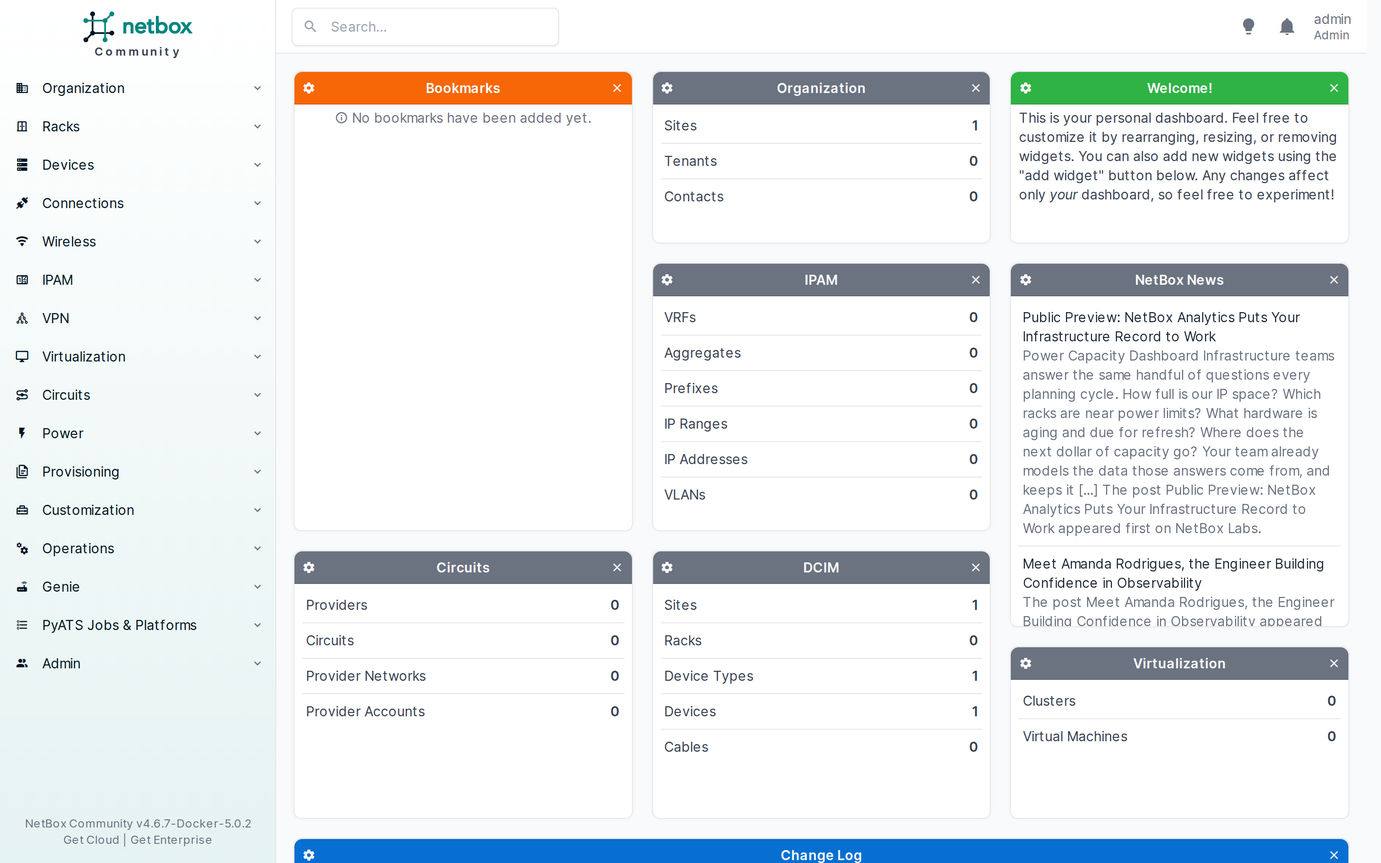
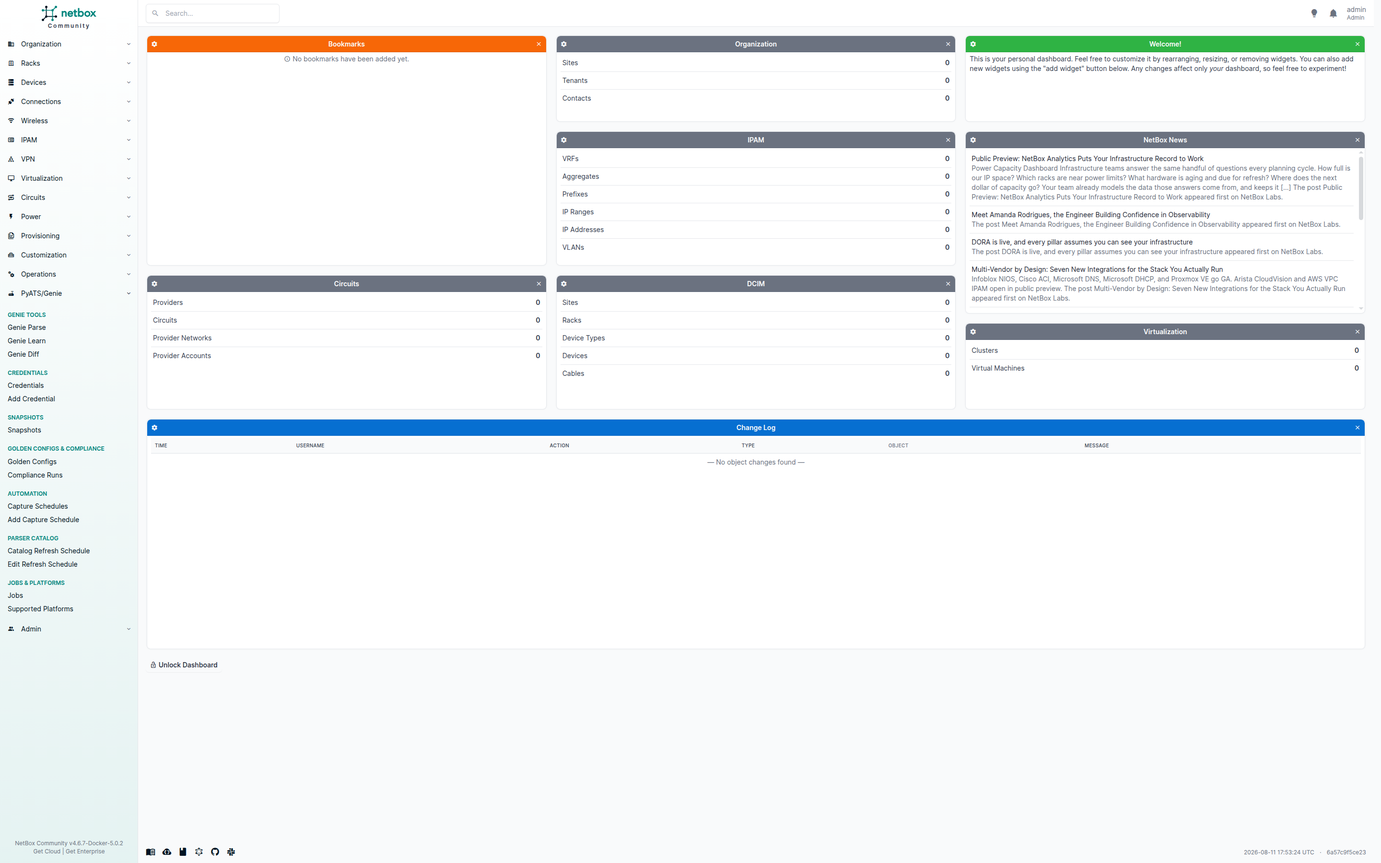
docs(ATW-801): recapture nav screenshot + refresh docs for consolidated PyATS/Genie menu
Follow-up to ATW-794 (PR #142, merge 9392c97) which consolidated the
two top-level menus (Genie + PyATS Jobs & Platforms) into a single
PluginMenu(label="PyATS/Genie") with 7 groups and 14 items.

- Re-capture docs/screenshots/nav-pyats-menu.png against a live dev
  stack (NetBox 4.6.7) showing the single PyATS/Genie top-level menu
  expanded with all seven groups (Genie Tools, Credentials, Snapshots,
  Golden Configs & Compliance, Automation, Parser Catalog, Jobs &
  Platforms). The old screenshot showed the ATW-732 dual-menu layout.
- README: update the "At a glance" paragraph, the nav screenshot alt
  text, and the caption to describe the single PyATS/Genie menu.
- docs/user/usage.md: update the intro, section 8 "Browse everything"
  (now one top-level menu with 7 groups, not two menus), the nav
  screenshot alt text, and every breadcrumb (Genie -> ... becomes
  PyATS/Genie -> ...; PyATS Jobs & Platforms -> ... becomes
  PyATS/Genie -> Jobs & Platforms -> ...).
- docs/user/installation.md: update the post-restart nav description,
  the nav screenshot alt text, and the verify-the-install breadcrumbs.
- docs/user/compliance.md, credentials.md, scheduled-captures.md,
  scheduled-parser-catalog-refresh.md: update breadcrumbs to the
  PyATS/Genie top-level menu.
- CHANGELOG: add the ATW-794 consolidation entry under "Changed" and
  the ATW-801 docs follow-up entry under "Docs".

Docs-only: no code, nav structure, or model changes. The nav
[…]

diff --git a/docs/user/usage.md b/docs/user/usage.md
@@ -1,6 +1,6 @@
 # Usage guide
 
-The plugin adds a **PyATS** tab to every NetBox device page, plus a top-level **Genie** menu with three dedicated first-class surfaces — **Genie Parse**, **Genie Learn**, and **Genie Diff** — that are the primary way to run ad-hoc parses, Genie Ops learn captures, and snapshot diffs. The device-page tab stays as a convenience for one-device workflows; the dedicated pages are the primary surfaces for cross-device and catalog-driven work. This guide walks the full workflow with exact UI paths.
+The plugin adds a **PyATS** tab to every NetBox device page, plus a single top-level **PyATS/Genie** menu in the NetBox navigation with three dedicated first-class surfaces — **Genie Parse**, **Genie Learn**, and **Genie Diff** — under a **Genie Tools** group, alongside the supporting groups (Credentials, Snapshots, Golden Configs & Compliance, Automation, Parser Catalog, Jobs & Platforms). The dedicated Genie pages are the primary way to run ad-hoc parses, Genie Ops learn captures, and snapshot diffs. The device-page tab stays as a convenience for one-device workflows; the dedicated pages are the primary surfaces for cross-device and catalog-driven work. This guide walks the full workflow with exact UI paths.
 
 ## Prerequisites
 
@@ -11,7 +11,7 @@ The plugin adds a **PyATS** tab to every NetBox device page, plus a top-level **
 
 ## 1 — Add a credential
 
-**Genie → Credentials → Add Credential**.
+**PyATS/Genie → Credentials → Add Credential**.
 
 Pick a device, enter username + password (+ optional enable secret). The secrets are encrypted with Fernet before they hit the database — see [Credential encryption](credentials.md). The credential is never returned by the REST API, GraphQL, or the detail view template; only ciphertext is persisted.
 
@@ -43,7 +43,7 @@ For recurring captures (e.g. a nightly baseline for drift detection), see [Sched
 
 ## 3 — Run an on-demand Parse
 
-The dedicated **Genie Parse** page (**Genie → Genie Tools → Genie Parse**, `/plugins/pyats/genie/parse/`) is the primary surface for ad-hoc Genie parser runs. It combines:
+The dedicated **Genie Parse** page (**PyATS/Genie → Genie Tools → Genie Parse**, `/plugins/pyats/genie/parse/`) is the primary surface for ad-hoc Genie parser runs. It combines:
 
 - a **device picker** (GET `?device=<pk>`),
 - the **parse form** — the same form the device-page Parse sub-tab uses: a checkbox list of cached parser commands for the device's resolved pyATS os (populated from the `PyatsParserCatalog` row — DB only, no Genie import in the web process) and/or a free-text `manual_command` field,
@@ -61,7 +61,7 @@ The device-page **PyATS** tab → **Parse** link stays as a convenience; the ded
 
 ## 4 — Run a Genie Learn capture
 
-The dedicated **Genie Learn** page (**Genie → Genie Tools → Genie Learn**, `/plugins/pyats/genie/learn/`) runs a structured feature-state capture against a device using the Genie Ops framework (per-feature Ops `.learn()`). It combines:
+The dedicated **Genie Learn** page (**PyATS/Genie → Genie Tools → Genie Learn**, `/plugins/pyats/genie/learn/`) runs a structured feature-state capture against a device using the Genie Ops framework (per-feature Ops `.learn()`). It combines:
 
 - a **device picker**,
 - a **Run Learn** action — enqueues a `learn_snapshot_job` on the `pyats` queue; the worker connects via Unicon, iterates every Ops feature the device exposes (BGP, interfaces, OSPF, VLANs, …), and stores a `kind='learn'` `PyatsSnapshot` row whose `data["learn"]` is keyed by feature name,
@@ -76,7 +76,7 @@ Use Learn when you want a structured, feature-keyed view of device state (e.g. a
 
 ## 5 — Diff two snapshots
 
-The dedicated **Genie Diff** page (**Genie → Genie Tools → Genie Diff**, `/plugins/pyats/genie/diff/`) is the primary surface for all diff operations. It combines:
+The dedicated **Genie Diff** page (**PyATS/Genie → Genie Tools → Genie Diff**, `/plugins/pyats/genie/diff/`) is the primary surface for all diff operations. It combines:
 
 - a **mode picker** — **Same device** (classic pre/post-change check on one device) or **Cross-device** (compare the same feature across two devices),
 - **device pickers** — in cross-device mode, pick the before and after devices separately (GET `?before_device=<pk>&after_device=<pk>&mode=cross`),
@@ -102,7 +102,7 @@ The diff engine is pure-Python and operates on already-serialized JSONB — no p
 
 ## 6 — Add a golden config
 
-**Genie → Golden Configs & Compliance → Golden Configs → Add** (or open the device's PyATS tab → use the "Run compliance" picker's golden link).
+**PyATS/Genie → Golden Configs & Compliance → Golden Configs → Add** (or open the device's PyATS tab → use the "Run compliance" picker's golden link).
 
 Pick the device, give the golden a name (e.g. `baseline-rtr01`), and paste the expected running-config text. The `source` defaults to `manual`; a "promote from snapshot" flow sets it to `snapshot` and links the originating `PyatsSnapshot` for provenance. Multiple goldens per device are allowed (e.g. `baseline`, `post-maintenance-window`).
 
@@ -124,9 +124,9 @@ The compliance-run viewer (`/plugins/pyats/compliance-runs/<pk>/`) reuses the di
 
 ## 8 — Browse everything
 
-The plugin exposes two top-level menus in the NetBox navigation:
+The plugin adds a single top-level **PyATS/Genie** menu to the NetBox navigation, with seven groups:
 
-**Genie** (the primary menu):
+**PyATS/Genie** (the single top-level menu):
 
 - **Genie Tools** group — the three primary Genie surfaces:
   - **Genie Parse** — the dedicated Parse page (`/plugins/pyats/genie/parse/`, see [§3](#3-run-an-on-demand-parse)).
@@ -137,17 +137,15 @@ The plugin exposes two top-level menus in the NetBox navigation:
 - **Golden Configs & Compliance** — Golden Configs filterable by device/source, Compliance Runs filterable by device/result.
 - **Automation** — Capture Schedules (the recurring-capture model, see [Scheduled captures](scheduled-captures.md)).
 - **Parser Catalog** — the Catalog Refresh Schedule (see [Scheduled parser-catalog refresh](scheduled-parser-catalog-refresh.md)). The catalog rows themselves have no UI list view — they are a worker-populated cache read by the Parse page and exposed read-only via the REST + GraphQL API.
+- **Jobs & Platforms** group (the operational surface, closing the menu per ADR-0001 §3):
+  - **Jobs** (`/plugins/pyats/jobs/`) — one row per capture / diff / compliance / batch-capture / parse / learn / refresh-catalog job, with a `pending` → `running` → `success` / `error` / `partial` status lifecycle and typed links to the result row each job produced. Filterable by type, status, and device.
+  - **Supported Platforms** — the static platform → pyATS os map with per-slug device counts.
 
-**PyATS Jobs & Platforms** (the operational surface):
-
-- **Jobs** (`/plugins/pyats/jobs/`) — one row per capture / diff / compliance / batch-capture / parse / learn / refresh-catalog job, with a `pending` → `running` → `success` / `error` / `partial` status lifecycle and typed links to the result row each job produced. Filterable by type, status, and device.
-- **Supported Platforms** — the static platform → pyATS os map with per-slug device counts.
-
-> **Snapshot Diffs** have no standalone menu entry — the dedicated **Genie → Genie Diff** page is the primary surface (recent diffs across all devices + a "View all" link to the full diff history at `/plugins/pyats/diffs/`). The device-page Diff sub-tab stays as a convenience.
+> **Snapshot Diffs** have no standalone menu entry — the dedicated **PyATS/Genie → Genie Tools → Genie Diff** page is the primary surface (recent diffs across all devices + a "View all" link to the full diff history at `/plugins/pyats/diffs/`). The device-page Diff sub-tab stays as a convenience.
 
 Each detail view renders the JSONB payload / diff table / golden text / compliance diff and any warnings.
 
-<img src="../screenshots/nav-pyats-menu.png" alt="NetBox navigation with the top-level Genie menu expanded showing the Genie Tools group (Genie Parse, Genie Learn, Genie Diff), Credentials, Snapshots, Golden Configs &amp; Compliance, Automation, and Parser Catalog, plus the PyATS Jobs &amp; Platforms menu" width="720">
+<img src="../screenshots/nav-pyats-menu.png" alt="NetBox navigation with the single top-level PyATS/Genie menu expanded showing seven groups: Genie Tools (Genie Parse, Genie Learn, Genie Diff), Credentials, Snapshots, Golden Configs & Compliance, Automation, Parser Catalog, and Jobs & Platforms (Jobs, Supported Platforms)" width="720">
 
 <img src="../screenshots/jobs-view.png" alt="The unified PyATS Jobs view showing capture and batch-capture jobs with status badges including a partial row" width="720">
 
@@ -173,7 +171,7 @@ Genie parsers cover Cisco IOS/XE/XR/NX-OS/ASA, Juniper JunOS, Arista EOS, and No
 
 Adding a slug to the map is a commitment that Genie has real parser coverage for that os; unknown slugs degrade gracefully rather than silently producing empty snapshots.
 
-The supported-platforms report at **PyATS Jobs & Platforms → Supported Platforms** renders the static map the capture job uses, with a per-slug NetBox device count, so you can see what a batch capture will reach before you run it.
+The supported-platforms report at **PyATS/Genie → Jobs & Platforms → Supported Platforms** renders the static map the capture job uses, with a per-slug NetBox device count, so you can see what a batch capture will reach before you run it.
 
 <img src="../screenshots/supported-platforms.png" alt="The supported-platforms report showing the platform slug to pyATS os map with per-slug device counts" width="720">
 

diff --git a/CHANGELOG.md b/CHANGELOG.md
@@ -60,6 +60,7 @@ adheres to [Semantic Versioning](https://semver.org/spec/v2.0.0.html).
 
 - `next_run_at` now populated from the NetBox `Job` row's `interval` (ATW-610): both schedule dispatchers (`run_capture_schedules_job`, `run_parser_catalog_refresh_schedules_job`) set `next_run_at = last_run_at + interval` when running under a recurring `JobRunner` schedule, so the list-view "Next run" badge shows a real value. One-shot enqueues (no `interval`) leave `next_run_at` blank — no behavior change for non-recurring runs. Reconciles the model docstrings (which already said both fields are "written by the job") with the dispatcher behavior. No migration (field unchanged). Model/ADR docstrings updated to clarify `next_run_at` is conditional on the recurring interval.
 - Navigation relabel / consolidation (ATW-732): the supporting menu items under the **Genie** top-level menu drop the redundant `PyATS` prefix from their `link_text` (the menu already says "Genie") — `PyATS Credentials` → `Credentials`, `PyATS Snapshots` → `Snapshots`, `PyATS Golden Configs` → `Golden Configs`, `PyATS Compliance Runs` → `Compliance Runs`, `PyATS Capture Schedules` → `Capture Schedules`, `PyATS Jobs` → `Jobs`. The "Capture Schedules" group is renamed to "Automation" to match the board's proposed final navigation (ATW-727 plan). Display-text only — no links, permissions, or ordering changed. The standalone `pyatssnapshotdiff_list` menu entry (already removed in ATW-728) stays out of the nav; the full diff history at `/diffs/` is reached via the "View all" link on the dedicated Genie Diff page (ATW-731). This is the consolidation pass that followed ATW-728/729/730/731 landing.
+- Navigation consolidation to a single top-level menu (ATW-794): the two top-level menus introduced in ATW-728 (`Genie` + `PyATS Jobs & Platforms`) are folded back into a single `PluginMenu(label="PyATS/Genie")` with seven groups — Genie Tools, Credentials, Snapshots, Golden Configs & Compliance, Automation, Parser Catalog, and Jobs & Platforms (closing the menu per ADR-0001 §3). `navigation.menu` replaces the dual `genie_menu` / `jobs_menu`; the `ready()` override that registered the second menu is removed; the icon is unified to `mdi-router-wireless`. No links, permissions, or ordering changed — the ATW-732 display text and the 14 menu items are preserved as-is, only the top-level grouping collapses. The nav-menu uniqueness guard and canonical-ordering guard (supported_platforms last) pass unchanged.
 
 ### Fixed
 
@@ -105,3 +106,4 @@ adheres to [Semantic Versioning](https://semver.org/spec/v2.0.0.html).
 
 - User-facing docs update for the Genie Pages rollout (ATW-775, follow-up to ATW-728/729/730/731/732). `docs/user/usage.md` gains dedicated sections for **Genie Parse** (`/plugins/pyats/genie/parse/`), **Genie Learn** (`/plugins/pyats/genie/learn/`), and **Genie Diff** (`/plugins/pyats/genie/diff/`, same-device + cross-device modes), renumbers the workflow sections 1–9, extends the snapshot-kind table with `parse` and `learn`, and documents the new **Genie** menu structure (Genie Tools / Credentials / Snapshots / Golden Configs & Compliance / Automation / Parser Catalog). README gains bullets for the Parse and Learn dedicated pages under "Compare", and the docs index points at the new workflow. Screenshot recapture for the three new pages is delegated separately (needs a live NetBox stack).
 - Refresh `docs/screenshots/device-pyats-tab.png` post-ATW-393 tab move (ATW-406). The old screenshot (2026-07-27) showed the pre-PR-#86 `PluginTemplateExtension` right-column card chrome; the new image shows the real device-page PyATS tab (`/dcim/devices/<id>/pyats/`, registered via `register_model_view` per ADR-0007) — the tab container, capture form (config / state / full / parse), recent-snapshot history with status badges, and the diff + compliance pickers. README and `docs/user/usage.md` captions already said "PyATS tab"; no prose change needed.
+- Docs + screenshot refresh for the consolidated single top-level menu (ATW-801, follow-up to ATW-794 / PR #142). Re-captured `docs/screenshots/nav-pyats-menu.png` against a live dev stack to show the single **PyATS/Genie** top-level menu expanded with all seven groups (Genie Tools, Credentials, Snapshots, Golden Configs & Compliance, Automation, Parser Catalog, Jobs & Platforms). Updated README, `docs/user/usage.md` (intro + §8 "Browse everything" + breadcrumbs), `docs/user/installation.md`, `docs/user/compliance.md`, `docs/user/credentials.md`, `docs/user/scheduled-captures.md`, and `docs/user/scheduled-parser-catalog-refresh.md` to replace the dual-menu (`Genie` + `PyATS Jobs & Platforms`) references with the single **PyATS/Genie** menu path. CHANGELOG gains the ATW-794 consolidation entry under "Changed". No code or nav-structure change — the nav consolidation shipped in PR #142; this is the docs/screenshots follow-up.

diff --git a/README.md b/README.md
@@ -9,13 +9,13 @@ An [Atw](https://github.com/openjarv) [NetBox](https://netbox.dev) plugin that b
 
 ## At a glance
 
-Once installed, the plugin adds a top-level **Genie** entry in the NetBox navigation menu — leading with the three primary Genie tools (**Parse**, **Learn**, **Diff**) plus the supporting groups (Credentials, Snapshots, Golden Configs & Compliance, Automation, Parser Catalog) — a **PyATS Jobs & Platforms** menu for the operational surface, and every device page gains a **PyATS** tab.
+Once installed, the plugin adds a single top-level **PyATS/Genie** entry in the NetBox navigation menu — leading with the three primary Genie tools (**Parse**, **Learn**, **Diff**) under a **Genie Tools** group, followed by the supporting groups (Credentials, Snapshots, Golden Configs & Compliance, Automation, Parser Catalog) and a closing **Jobs & Platforms** group — and every device page gains a **PyATS** tab.
 
 <p align="center">
-  <img src="docs/screenshots/nav-pyats-menu.png" alt="NetBox navigation with the top-level Genie menu expanded showing the Genie Tools group (Genie Parse, Genie Learn, Genie Diff), Credentials, Snapshots, Golden Configs & Compliance, Automation, and Parser Catalog, plus the PyATS Jobs & Platforms menu" width="45%">&nbsp;&nbsp;
+  <img src="docs/screenshots/nav-pyats-menu.png" alt="NetBox navigation with the single top-level PyATS/Genie menu expanded showing seven groups: Genie Tools (Genie Parse, Genie Learn, Genie Diff), Credentials, Snapshots, Golden Configs & Compliance, Automation, Parser Catalog, and Jobs & Platforms (Jobs, Supported Platforms)" width="45%">&nbsp;&nbsp;
   <img src="docs/screenshots/device-pyats-tab.png" alt="A device's PyATS tab showing the capture form and recent-snapshot history with status badges" width="45%">
 </p>
-<p align="center"><em>Left: the top-level Genie menu (with the PyATS Jobs &amp; Platforms menu) in the NetBox nav. Right: the device-page PyATS tab — capture form and recent snapshots with status badges.</em></p>
+<p align="center"><em>Left: the single top-level PyATS/Genie menu in the NetBox nav, expanded to show all seven groups. Right: the device-page PyATS tab — capture form and recent snapshots with status badges.</em></p>
 
 The three dedicated Genie pages — **Parse**, **Learn**, and **Diff** — are the primary surfaces for ad-hoc parser runs, Genie Ops learn captures, and snapshot diffs:
 
@@ -54,7 +54,7 @@ Three feature groups ship today — see the [usage guide](docs/user/usage.md) fo
 
 - **Snapshot diffs** — `PyatsSnapshotDiff` + `run_diff` RQ job; structured recursive diff over JSONB flattened into a server-rendered side-by-side diff table (no JS).
 - **Diff viewer** — `/plugins/pyats/diffs/<pk>/`; flat `Path / Before / After` table with red/green monospace values for changed leaves, summary badges, raw-JSON fallback.
-- **Genie Diff page** — `/plugins/pyats/genie/diff/`; the primary diff surface under the **Genie** menu. Pick same-device or cross-device mode, select device(s) and two snapshots, and click Diff. Same-device reuses the device-page diff path; cross-device compares the same feature across two devices (the before device owns the diff row; the after device is recorded in the diff warnings). Recent diffs across all devices are shown below the form, with a "View all" link to the full diff history. The device-page Diff sub-tab stays as a convenience.
+- **Genie Diff page** — `/plugins/pyats/genie/diff/`; the primary diff surface under the **PyATS/Genie → Genie Tools** group. Pick same-device or cross-device mode, select device(s) and two snapshots, and click Diff. Same-device reuses the device-page diff path; cross-device compares the same feature across two devices (the before device owns the diff row; the after device is recorded in the diff warnings). Recent diffs across all devices are shown below the form, with a "View all" link to the full diff history. The device-page Diff sub-tab stays as a convenience.
 - **Genie Parse page** — `/plugins/pyats/genie/parse/`; ad-hoc Genie parser runs against any device from a first-class page — a device picker, a checkbox list of cached parser commands from the `PyatsParserCatalog`, a free-text `manual_command` field, and a recent-results table. The result lands as a `kind='parse'` snapshot.
 - **Genie Learn page** — `/plugins/pyats/genie/learn/`; structured feature-state capture via the Genie Ops framework (per-feature Ops `.learn()`). Pick a device, click Run Learn, and the worker iterates every Ops feature the device exposes (BGP, interfaces, OSPF, VLANs, …) into a `kind='learn'` snapshot keyed by feature name. Learn snapshots are diffable against other `learn` snapshots in the Diff page.
 

diff --git a/docs/user/installation.md b/docs/user/installation.md
@@ -48,9 +48,9 @@ python manage.py migrate
 sudo systemctl restart netbox netbox-rq
 ```
 
-After restart, **Genie** (the primary menu — Parse / Learn / Diff plus the supporting groups) and **PyATS Jobs & Platforms** appear in the NetBox navigation menu.
+After restart, a single top-level **PyATS/Genie** menu appears in the NetBox navigation — Genie Tools (Parse / Learn / Diff), Credentials, Snapshots, Golden Configs & Compliance, Automation, Parser Catalog, and Jobs & Platforms.
 
-<img src="../screenshots/nav-pyats-menu.png" alt="NetBox navigation menu with the top-level PyATS menu expanded" width="720">
+<img src="../screenshots/nav-pyats-menu.png" alt="NetBox navigation menu with the single top-level PyATS/Genie menu expanded showing seven groups" width="720">
 
 ## Step 3 — Set up the pyats worker
 
@@ -69,12 +69,12 @@ The worker needs the same NetBox configuration (`configuration.py`, `PLUGINS`, `
 
 ## Step 4 — Verify the install
 
-1. Add a `PyatsCredential` at **Genie → Credentials → Add Credential**. Pick a device, enter username + password (+ optional enable secret). The secrets are encrypted with Fernet before they hit the database.
+1. Add a `PyatsCredential` at **PyATS/Genie → Credentials → Add Credential**. Pick a device, enter username + password (+ optional enable secret). The secrets are encrypted with Fernet before they hit the database.
 
    <img src="../screenshots/credential-add-form.png" alt="The Add Credential form with the device picker open" width="720">
 2. Open the device's detail page → **PyATS** tab. You should see the capture button (config / state / full) and an empty recent-snapshots list.
 3. Click **Capture** (config kind is enough for a smoke test). The job is enqueued on the `pyats` queue.
-4. When the worker finishes, the snapshot appears in the tab's recent-snapshots list and under **Genie → Snapshots**.
+4. When the worker finishes, the snapshot appears in the tab's recent-snapshots list and under **PyATS/Genie → Snapshots**.
 
 If the snapshot shows `unsupported` status, the device's NetBox Platform slug is not in the parser map — see [Troubleshooting](troubleshooting.md). If it shows `error` with `connection failed`, the worker cannot reach the device's management IP.
 

diff --git a/docs/user/scheduled-captures.md b/docs/user/scheduled-captures.md
@@ -26,7 +26,7 @@ The plugin splits scheduling into three pieces (ADR-0008):
 
 ## Creating a schedule
 
-1. Navigate to **Genie → Automation → Add Capture Schedule**.
+1. Navigate to **PyATS/Genie → Automation → Add Capture Schedule**.
 2. Enter a **name** (e.g. "Edge-routers nightly baseline").
 3. Pick a **kind** (config / state / full).
 4. Enter a **device_filter** as a JSON ORM filter spec. Examples:
@@ -93,10 +93,10 @@ comes online").
 
 ## Verifying a scheduled run
 
-1. After the dispatcher fires, navigate to **PyATS Jobs & Platforms → Jobs** — you will see
+1. After the dispatcher fires, navigate to **PyATS/Genie → Jobs & Platforms → Jobs** — you will see
    one `batch_capture` `PyatsJob` row per enabled schedule.
 2. The schedule's **Last run** timestamp is updated after each dispatch.
-3. The snapshot rows appear in **Genie → Snapshots** (or the device-page PyATS
+3. The snapshot rows appear in **PyATS/Genie → Snapshots** (or the device-page PyATS
    tab) once the pyats worker finishes the captures.
 
 ## External cron fallback

diff --git a/docs/user/scheduled-parser-catalog-refresh.md b/docs/user/scheduled-parser-catalog-refresh.md
@@ -32,7 +32,7 @@ The scheduling mirrors the [scheduled captures](scheduled-captures.md) flow
 
 ## Enabling the schedule
 
-1. Navigate to **Genie → Parser Catalog → Catalog Refresh Schedule** (or
+1. Navigate to **PyATS/Genie → Parser Catalog → Catalog Refresh Schedule** (or
    **Edit Refresh Schedule** — both land on the same single row).
 2. Tick **enabled**.
 3. Save.
@@ -89,7 +89,7 @@ comes online").
 
 ## Verifying a scheduled run
 
-1. After the dispatcher fires, navigate to **PyATS Jobs & Platforms → Jobs** — you will see
+1. After the dispatcher fires, navigate to **PyATS/Genie → Jobs & Platforms → Jobs** — you will see
    one `refresh_catalog` `PyatsJob` row per dispatch.
 2. The schedule's **Last run** timestamp is updated after each dispatch.
 3. The `PyatsParserCatalog` rows (one per supported `os`) are upserted with

diff --git a/docs/user/compliance.md b/docs/user/compliance.md
@@ -17,7 +17,7 @@ The `run_compliance` job:
 4. classifies the outcome,
 5. persists a `PyatsComplianceRun` row with the diff tree + summary counts + warnings, and records the `mode` that produced it.
 
-The row is **always created**, even on `error`, so the outcome is visible in-line in the device-page PyATS tab and under **Genie → Golden Configs & Compliance → Compliance Runs**. The `mode` is shown as a badge on the run detail, a column in the runs list, and a filter (`?mode=ordered` / `?mode=set`).
+The row is **always created**, even on `error`, so the outcome is visible in-line in the device-page PyATS tab and under **PyATS/Genie → Golden Configs & Compliance → Compliance Runs**. The `mode` is shown as a badge on the run detail, a column in the runs list, and a filter (`?mode=ordered` / `?mode=set`).
 
 ## Classification
 

diff --git a/docs/user/credentials.md b/docs/user/credentials.md
@@ -28,7 +28,7 @@ Changing `credential_key` means existing ciphertext can no longer be decrypted (
 
 1. Generate a new key (above).
 2. Update `PLUGINS_CONFIG['netbox_pyats']['credential_key']` and restart NetBox.
-3. Re-enter each `PyatsCredential`'s password / enable secret at **Genie → Credentials →** the credential's edit page. Old ciphertext is unreadable; the re-entered plaintext is encrypted with the new key.
+3. Re-enter each `PyatsCredential`'s password / enable secret at **PyATS/Genie → Credentials →** the credential's edit page. Old ciphertext is unreadable; the re-entered plaintext is encrypted with the new key.
 
 v1 ships a management note for this; an automated re-key command is planned for a later release.
 
